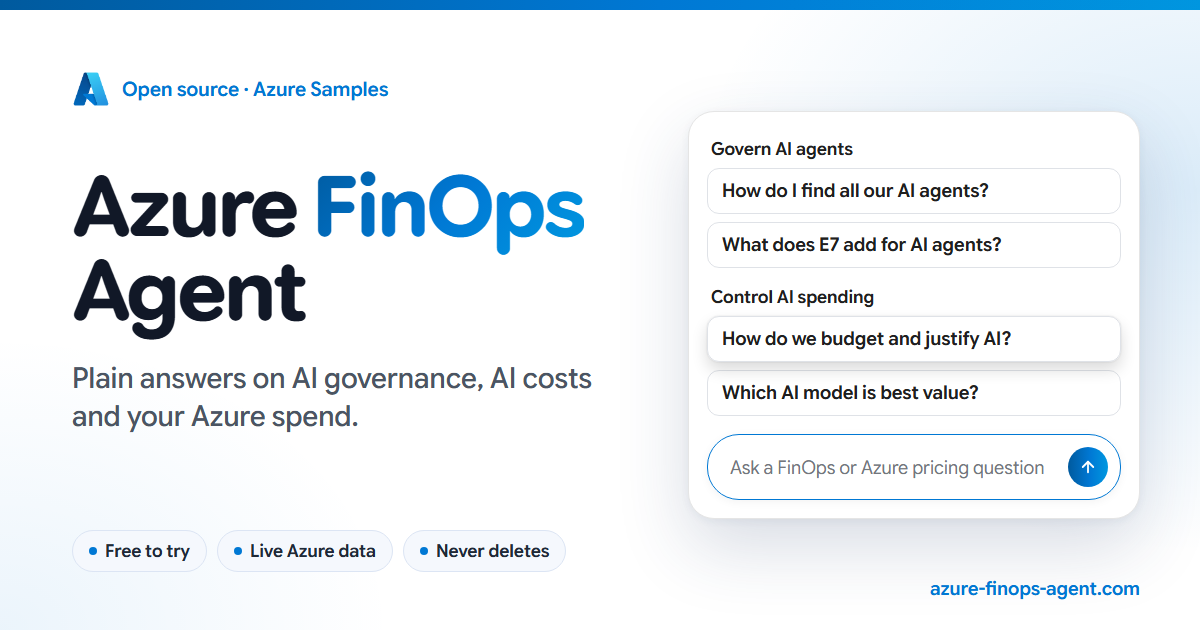
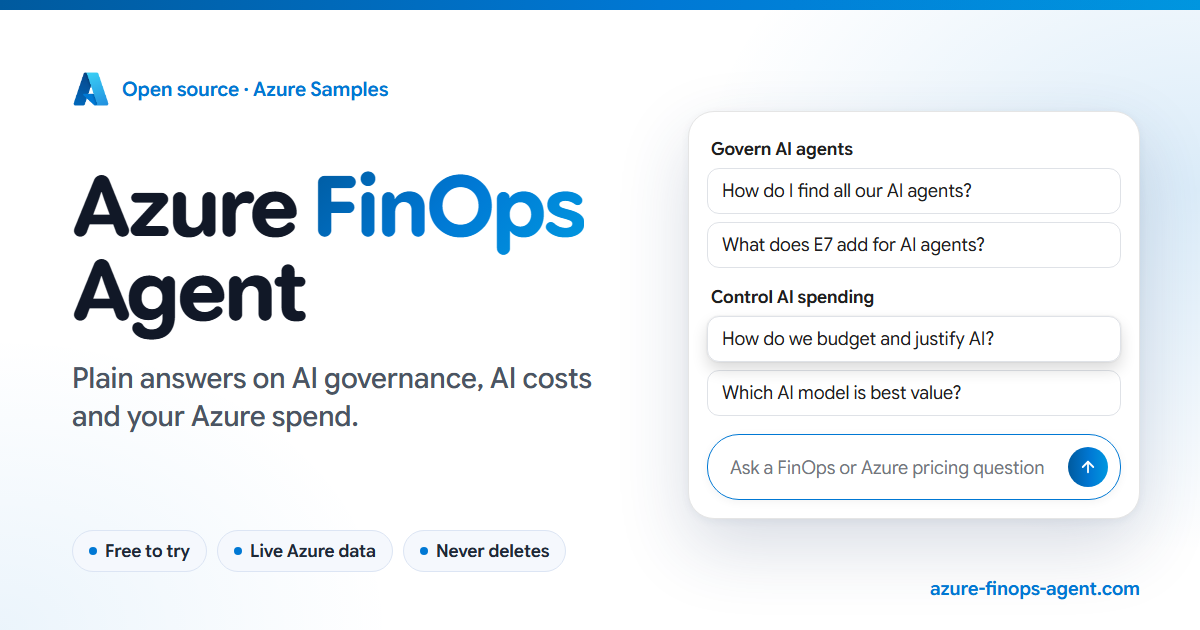
Show start-page question cards in regular body weight; keep section headings bold

diff --git a/src/Dashboard/frontend/src/components/ChatView.vue b/src/Dashboard/frontend/src/components/ChatView.vue
@@ -10513,7 +10513,7 @@ async function send() {
 }
 /* Starter cards follow Microsoft's Copilot prompt starter (Fluent AI
    PromptStarter, compact layout): a white card with a thin border, 12 px
-   corners and semibold text that lifts under the pointer with Fluent's
+   corners and regular body text that lifts under the pointer with Fluent's
    shadow16 and a 3% scale on its 200 ms decelerate curve. Nothing moves
    while idle. */
 .starter-question {
@@ -10555,7 +10555,7 @@ async function send() {
   padding: 8px 14px;
   font-size: var(--text-body-size);
   line-height: var(--text-body-line);
-  font-weight: 600;
+  font-weight: 400;
 }
 /* More/Fewer: a quiet text button under a section's cards, on phones only. */
 .starter-more {

diff --git a/src/Dashboard/frontend/social/og-image.html b/src/Dashboard/frontend/social/og-image.html
@@ -134,14 +134,14 @@
         margin-top: 2px;
       }
       /* The start page's cards: white, a thin border, 12px corners and
-         semibold text; the hovered one lifts with Fluent's shadow16. */
+         regular text; the hovered one lifts with Fluent's shadow16. */
       .question {
         margin-top: 8px;
         padding: 9px 14px;
         border: 1px solid rgba(31, 51, 82, 0.14);
         border-radius: 12px;
         font-size: 19px;
-        font-weight: 600;
+        font-weight: 400;
         line-height: 26px;
         color: #1f1f1f;
       }

diff --git a/src/Dashboard/frontend/index.html b/src/Dashboard/frontend/index.html
@@ -40,7 +40,7 @@
     />
     <meta
       property="og:image"
-      content="https://azure-finops-agent.com/og-image.png?v=3"
+      content="https://azure-finops-agent.com/og-image.png?v=4"
     />
     <meta property="og:image:type" content="image/png" />
     <meta property="og:image:width" content="1200" />
@@ -64,7 +64,7 @@
     />
     <meta
       name="twitter:image"
-      content="https://azure-finops-agent.com/og-image.png?v=3"
+      content="https://azure-finops-agent.com/og-image.png?v=4"
     />
     <meta
       name="twitter:image:alt"

diff --git a/.github/copilot-instructions.md b/.github/copilot-instructions.md
@@ -169,7 +169,7 @@ The agent is deliberately minimal: tools are thin, host-enforced pass-throughs a
 
   Never add literal colours, corner sizes, fonts or shadows to components.
 - The left navigation holds New chat; signed-in maturity levels (Crawl, Walk and Run with stars, Re-score and per-dimension details); signed-in Prompts; and the connection/account footer. The always-visible desktop rail holds Sessions then Jobs in its upper half and Agent activity in its lower half; the two lists scroll inside their own rows, so a long Sessions list never pushes the Jobs row out of view. Sessions are grouped by last activity with search above five entries. Jobs has a New job button disabled while signed out; each existing job has one menu for Run now, Edit, Pause/Resume and Delete, rendered at the page root. Activity groups calls by question, newest first, with only the newest group open and a status line only while working. Sessions and Jobs use deferred Teleports disabled at 900px and below: compact navigation contains New chat, Jobs, maturity, Prompts and Sessions, while the rail stays hidden unless an answer's call count opens the activity sheet. Escape, backdrop and close return focus to the triggering count. New chat lives only in navigation. The header keeps Open source on the left (label hidden below 520px) and branch/build on the right (branch hidden below 600px), without repeated product branding.
-- The start page keeps the brand title (Azure **FinOps** Agent, the accent word in the brand gradient) and shows three sections (Govern AI agents, Control AI spending, Compare Azure prices; signed in, the connected price prompts come first), each with its five most important questions as cards styled after Microsoft's Copilot prompt starter (white, thin border, `--radius-lg`, semibold body text); phones show the first three, with More showing the rest in place. Each card shows a short customer question of at most 36 characters and sends a precise, slightly technical prompt that names no model version or single model service. The Fluent AI (Copilot) packages are internal-only, so the cards follow their published styles with Fluent's public token values rather than depend on them. An AI notice ("AI-generated answers can be wrong. Check important figures.") sits under the composer.
+- The start page keeps the brand title (Azure **FinOps** Agent, the accent word in the brand gradient) and shows three sections (Govern AI agents, Control AI spending, Compare Azure prices; signed in, the connected price prompts come first), each with its five most important questions as cards styled after Microsoft's Copilot prompt starter (white, thin border, `--radius-lg`, regular body-weight text; only each section's heading is bold); phones show the first three, with More showing the rest in place. Each card shows a short customer question of at most 36 characters and sends a precise, slightly technical prompt that names no model version or single model service. The Fluent AI (Copilot) packages are internal-only, so the cards follow their published styles with Fluent's public token values rather than depend on them. An AI notice ("AI-generated answers can be wrong. Check important figures.") sits under the composer.
 - Under every finished answer: Copy (its Markdown) and Good answer/Poor answer, one rating per answer identified by the 1-based visible question it answers (pressing it again clears it), and, on a turn's last message with tool calls, its call count, which opens Agent activity at that question. Make a deck and Write a script follow only the latest answer. Edit under the latest answered question puts it back in the composer without sending (the answer stays). A held change shows a plain-language line derived only from its exact request (`changeSummary.js`), never from model text, above the exact method, URL and body.
 - Conversation deletion is one click (the row's trash icon) with no confirmation step. The row stays visible and disabled while the server responds. Only confirmed server deletion clears client state; active turns return a conflict and failures remain visible for retry. There is no Clear chat; New chat starts a fresh conversation.
 - Closed navigation must be invisible and inert. Keep the compact overlay aligned to the actual header, dismissible with Escape/backdrop, and return focus to its toggle.

diff --git a/CHANGELOG.md b/CHANGELOG.md
@@ -33,6 +33,7 @@ The format follows [Keep a Changelog](https://keepachangelog.com/en/1.1.0/) and 
 
 ### Changed
 
+- Show the start page's question cards in regular body-weight text instead of semibold, matching the rest of the page; only each section's heading stays bold. The social sharing card (`og-image.png?v=4`) matches.
 - Keep the desktop right rail visible with Sessions first, Jobs second, and Agent activity occupying its lower half even when idle. Signed-out users can list, reopen and delete their own browser identity's conversations; jobs still require Entra sign-in.
 
 - Start Prompts collapsed on desktop and mobile on every visit, including browsers that previously saved it open. Opening the library no longer persists into the next visit.
